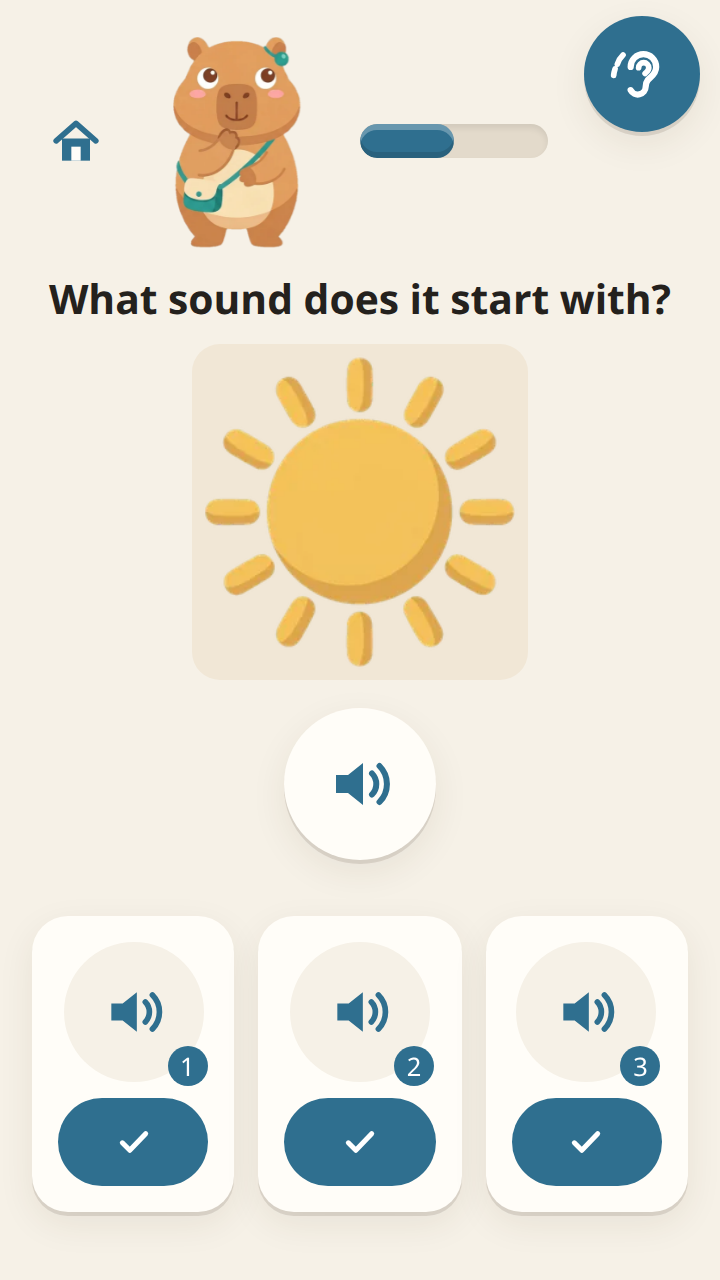
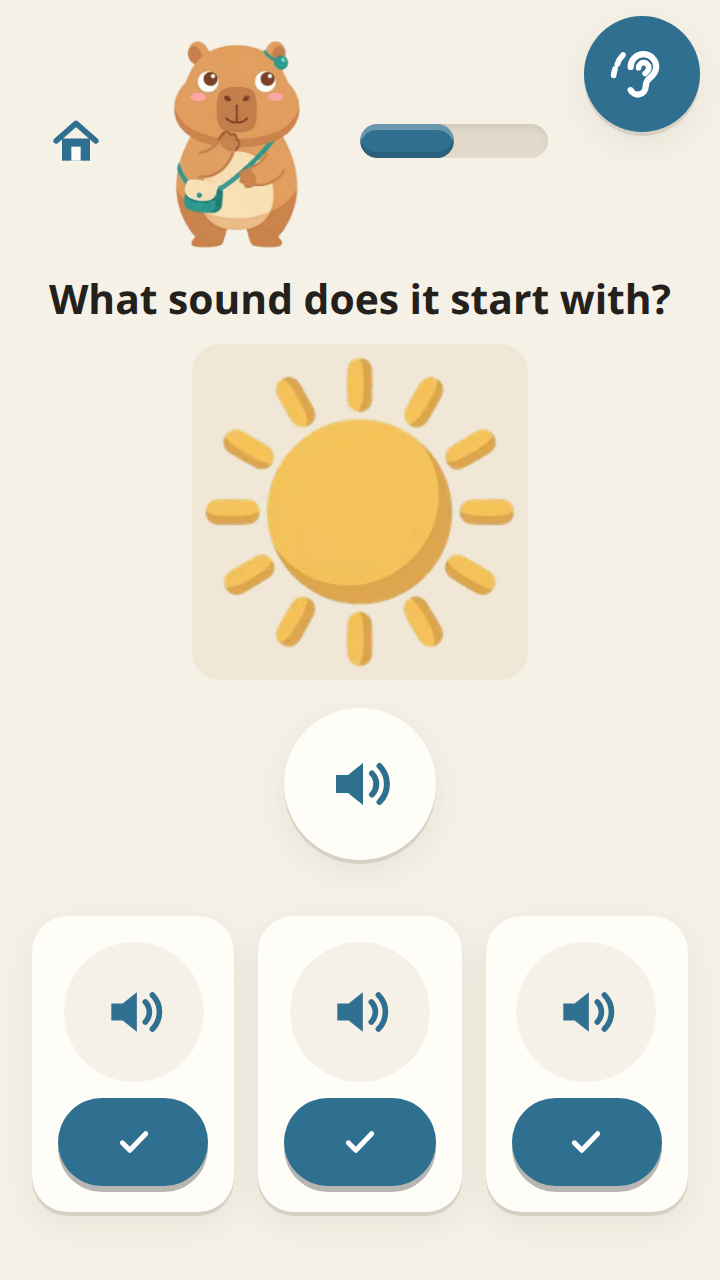
app: picture is the tap-to-hear card target, one enabled/waiting check-pill style, big play button on Listen intro and first screen

diff --git a/app/src/style.css b/app/src/style.css
@@ -94,7 +94,7 @@ canvas.trace { width: min(300px, 80vw); aspect-ratio: 1; background: var(--card)
 .opt { background: var(--card); border-radius: 18px; box-shadow: var(--shadow); padding: 10px; display: grid; gap: 8px; justify-items: center; border: 3px solid transparent; transition: border-color .2s, background .2s; }
 .opt.hl { border-color: var(--hl); background: #fff8df; } .opt.right { border-color: var(--good); background: #e9f5eb; } .opt.wrong { border-color: var(--bad); background: #fbe9e5; }
 .opt-play { width: 70px; height: 70px; border-radius: 50%; border: 0; background: var(--paper); color: var(--accent); display: grid; place-items: center; position: relative; }
-.opt-play svg { width: 34px; height: 34px; } .opt-play .n { position: absolute; bottom: -2px; right: -2px; font-size: .75rem; background: var(--accent); color: #fff; border-radius: 99px; width: 20px; height: 20px; display: grid; place-items: center; }
+.opt-play svg { width: 34px; height: 34px; }
 .opt-pick { border: 0; border-radius: 99px; background: var(--accent); color: #fff; padding: 9px 14px; font-weight: 650; width: 100%; min-height: 44px; }
 .timer { width: 100%; height: 6px; background: var(--line); border-radius: 9px; overflow: hidden; } .timer i { display: block; height: 100%; background: var(--accent); animation: shrink linear forwards; width: 100%; }
 @keyframes shrink { to { width: 0; } }
@@ -250,10 +250,19 @@ button:focus:not(:focus-visible), a:focus:not(:focus-visible) { outline: none; }
 .beat .tilo-bubble::before { top: calc(50% - 7px); left: -9px; }
 .screen:has(> .options) > .speaker.big { margin-block: auto; }   /* the speaker sits in the middle of the free space, the cards stay low */
 
-/* ---- answer-card check buttons: ONE disabled look (soft grey, while pending / voice speaking / after the pick) and ONE enabled look (accent) ---- */
-.opt-pick:disabled, .ghost-pick { background: #b4bfc6; color: #fff; opacity: 1; }
-.opt-pick:not(:disabled) { background: var(--accent); }
-.track-B .opt-pick:disabled, .track-B .ghost-pick { background: #b8bec4; }
+/* ---- answer-card check buttons: ONE waiting look (accent, dimmed, while pending / voice speaking / after the pick) and ONE enabled look (solid accent, bold) ---- */
+.opt-pick:disabled, .ghost-pick { background: var(--accent); color: #fff; opacity: .35; box-shadow: none; }
+.opt-pick:not(:disabled) { background: var(--accent); color: #fff; opacity: 1; box-shadow: 0 3px 0 rgba(0, 0, 0, .28); }
+.opt-pick svg { stroke-width: 3.5; }
+/* the picture is the tap-to-hear target: a small speaker glyph sits in its corner (no number badge, no separate speaker circle) */
+.opt-play.pic-play { width: 100%; height: auto; border-radius: 14px; background: none; box-shadow: none; padding: 0; position: relative; display: block; color: inherit; }
+.pic-play .picture { width: 100%; max-width: 120px; margin: 0 auto; } .pic-play .pic-lab .picture { max-width: 104px; }
+.pic-glyph { position: absolute; top: 4px; right: 4px; width: 30px; height: 30px; border-radius: 50%; background: var(--accent); color: #fff; display: grid; place-items: center; box-shadow: 0 1px 4px rgba(0, 0, 0, .3); }
+.pic-glyph svg { width: 18px; height: 18px; }
+@media (max-height: 700px) { .pic-play .picture { max-width: 96px; } .pic-play .pic-lab .picture { max-width: 84px; } }
+.startplay { flex: none; width: 96px; height: 96px; margin: 6px auto; border-radius: 50%; border: 0; background: var(--accent); color: #fff; box-shadow: var(--shadow); display: grid; place-items: center; }
+.startplay svg { width: 46px; height: 46px; margin-left: 5px; }
+@media (max-height: 700px) { .startplay { width: 76px; height: 76px; } .startplay svg { width: 36px; height: 36px; } }
 /* an ambiguous word keeps its picture; the small printed word sits under it */
 .pic-lab { width: 100%; display: flex; flex-direction: column; align-items: center; gap: 2px; }
 .pic-lab .picture { width: 100%; max-width: 104px; }

diff --git a/app/src/screens/l1steps.js b/app/src/screens/l1steps.js
@@ -2,7 +2,7 @@
 // ({ result, correct, judged, bar, gate? }) that the session treats like "Show what you know".
 // Every judged pick below is an `.l1-opts .opt` card; the right one carries data-ok (the test driver reads it).
 import { play, wait, mark, stop } from '../audio.js';
-import { h, icon, btn } from '../ui.js';
+import { h, icon, btn, ICON } from '../ui.js';
 import { teacher } from '../teacher.js';
 import { oral, oralCheck } from './l1oral.js';
 import { names, bdpq } from './l1review.js';
@@ -23,8 +23,9 @@ export function choice(stage, cards, { test = false, autoplay = true, cls = 'two
   let first = null, tries = 0, resolve; const done = new Promise(r => { resolve = r; });
   const els = cards.map((c, i) => {
     const el = h('div', { class: 'opt', 'data-ok': c.ok ? '1' : null, 'data-id': c.id || null },
-      c.key ? h('button', { class: 'opt-play', 'aria-label': `Option ${i + 1}: play`, onclick: () => play(c.key) }, icon('speaker'), h('span', { class: 'n' }, String(i + 1))) : null,
-      c.body || null,
+      // the picture IS the tap-to-hear target (small speaker glyph in its corner); no picture = the big speaker button is the card
+      c.key && c.body ? h('button', { class: 'opt-play pic-play', 'aria-label': `Option ${i + 1}: play`, onclick: () => play(c.key) }, c.body, h('span', { class: 'pic-glyph', html: ICON.speaker }))
+        : c.key ? h('button', { class: 'opt-play', 'aria-label': `Option ${i + 1}: play`, onclick: () => play(c.key) }, icon('speaker')) : (c.body || null),
       btn(c.label || 'This one', c.icon ?? (c.say ? null : 'check'), { class: 'opt-pick', disabled: true, say: c.say || 'ui:thisOne' }));
     el.querySelector('.opt-pick').addEventListener('click', async () => {
       if (first === null) first = !!c.ok;

diff --git a/app/src/screens/listen.js b/app/src/screens/listen.js
@@ -2,7 +2,7 @@
 // Then one Tier-2 word with its English meaning, then 2 spoken questions. The questions have no authored answer options, so nothing is graded or praised:
 // the learner talks about it out loud and taps the arrow.
 import { play, wait, mark } from '../audio.js';
-import { h, speaker, picture, icon } from '../ui.js';
+import { h, speaker, picture, icon, playButton } from '../ui.js';
 import { teacher } from '../teacher.js';
 import { tilo } from '../tilo.js';
 
@@ -14,8 +14,9 @@ export async function listen(ctx) {
   const pics = h('div', { class: 'pics story' });
   // the first scene fills the room under the title while Tilo introduces the story (no dead space); it hands over to the story grid below
   const first = picture(`scene:${lid}:0`); const hero = first ? h('div', { class: 'intro-hero' }, first) : null;
-  s.append(h('h2', {}, li.title || 'Listen'), h('p', { class: 'muted' }, 'You don\'t need to read this. Just listen.'), ...(hero ? [hero] : []), pics);
+  s.append(h('h2', {}, li.title || 'Listen'), h('p', { class: 'muted' }, 'You don\'t need to read this. Just listen.'), ...(hero ? [hero, playButton(() => teacher.replay(), 'Play the story introduction')] : []), pics);
   await ctx.instruct('ui:listenIntro', { nudge: 'ui:idleTap' });
+  s.querySelector('.startplay')?.remove();
   ctx.endBeat();   // Tilo's intro is done; the story pictures need the room, so he goes back to the header
   if (ctx.hasClip(`lt:${lid}:title`)) await play(`lt:${lid}:title`);
   for (let i = 0; ctx.hasClip(`lt:${lid}:${i}`); i++) {

diff --git a/app/src/session.js b/app/src/session.js
@@ -1,6 +1,6 @@
 // Runs one sitting: a list of steps from the lesson JSON (appSittings), then the mini check and rewards.
 import { play, stop, mark, has } from './audio.js';
-import { h, icon, btn, village, STICKERS } from './ui.js';
+import { h, icon, btn, village, STICKERS, playButton } from './ui.js';
 import { tilo } from './tilo.js';
 import { teacher } from './teacher.js';
 import * as db from './db.js';
@@ -63,6 +63,8 @@ export async function runSitting(app, profile, key) {
     // ("halfway", "last one") goes in front of the first prompt of its step.
     async instruct(k, opts) {
       if (root.classList.contains('has-beat') && root.getBoundingClientRect().height > window.innerHeight + 1) ctx.endBeat();   // a full screen (answer cards) has no room for a big Tilo: he goes back to the header
+      // the first screen of a sitting that starts by itself and has no visible control gets one big play/replay button
+      if (!ctx.startShown) { ctx.startShown = true; const sc = body.querySelector('.screen'); if (sc && !sc.querySelector('.speaker, .options, .lettercard, canvas, .startplay, .btn')) sc.append(playButton(() => teacher.replay(), 'Play the instructions')); }
       const pre = ctx.pre; ctx.pre = null;
       const keys = [...(pre ? [`ui:${pre}`] : []), ...(Array.isArray(k) ? k : [k])];
       return teacher.prompt(keys, { nudge: NUDGE[String(ctx.step).split('-')[0]] || 'ui:idlePick', ...opts });

diff --git a/app/src/ui.js b/app/src/ui.js
@@ -41,6 +41,9 @@ export function btn(label, name, attrs = {}) {
   return h('button', { ...attrs, 'data-say': say || null }, name ? icon(name, 'icon bi') : null, h('span', { class: 'bl' }, label));
 }
 
+// A large round play/replay button for intro screens that start by themselves: a big, obvious tap target.
+export const playButton = (onclick, label = 'Play') => h('button', { class: 'startplay', type: 'button', 'aria-label': label, 'data-say': 'ui:hearAgain', onclick }, icon('play'));
+
 // A speaker button: plays one clip (or a sequence via onplay) and pulses while playing.
 export function speaker(key, { label = 'Hear it again', big = false, onplay } = {}) {
   const b = h('button', { class: 'speaker' + (big ? ' big' : ''), 'aria-label': label, 'data-key': key || '' }, icon('speaker'));

diff --git a/app/src/gate.js b/app/src/gate.js
@@ -77,7 +77,7 @@ export async function gate(ctx, w, kind, { windowMs = 40000 } = {}) {   // 40 s:
     const picked = new Promise(r => { pick = r; });
     const cards = order.map((opt, i) => {
       const card = h('div', { class: 'opt', 'data-cell': opt.cell, 'data-w': opt.w, 'data-ipa': opt.ipa },
-        h('button', { class: 'opt-play', 'aria-label': `Option ${i + 1}: play`, onclick: () => play(`ipa:${opt.ipa}`) }, icon('speaker'), h('span', { class: 'n' }, String(i + 1))),
+        h('button', { class: 'opt-play', 'aria-label': `Option ${i + 1}: play`, onclick: () => play(`ipa:${opt.ipa}`) }, icon('speaker')),
         btn('This one', 'check', { class: 'opt-pick', disabled: true, say: 'ui:thisOne', onclick: () => pick(opt) }));
       return card;
     });

diff --git a/tools/shoot_pictures.py b/tools/shoot_pictures.py
@@ -71,6 +71,12 @@ def main():
             else:
                 pg.evaluate(f"() => {{ window.__so.app.sitting('{lk}'); }}")   # not awaited: a sitting runs until its end screen
                 seen_scene = seen_q = False; deadline = time.time() + 120
+                try:   # the Listen intro starts by itself: it must carry one big, labelled play button under the scene
+                    pg.wait_for_selector(".intro-hero ~ .startplay", timeout=8000); pg.wait_for_function(LOADED); pg.screenshot(path=str(OUT / "0_listen_intro.png"))
+                    bb = pg.locator(".startplay").bounding_box()
+                    if not pg.locator(".startplay").get_attribute("aria-label"): problems.append("listen intro: play button has no aria-label")
+                    if bb["width"] < 64 or bb["height"] < 64: problems.append(f"listen intro: play button too small {bb}")
+                except Exception as e: problems.append(f"listen intro: no play button under the scene ({e.__class__.__name__})")
                 while time.time() < deadline and not seen_q:
                     if not seen_scene and pg.locator(".pics .picture").count() >= 3:
                         pg.wait_for_function(LOADED); time.sleep(0.3); pg.screenshot(path=str(OUT / "3_listen_story.png")); seen_scene = True
